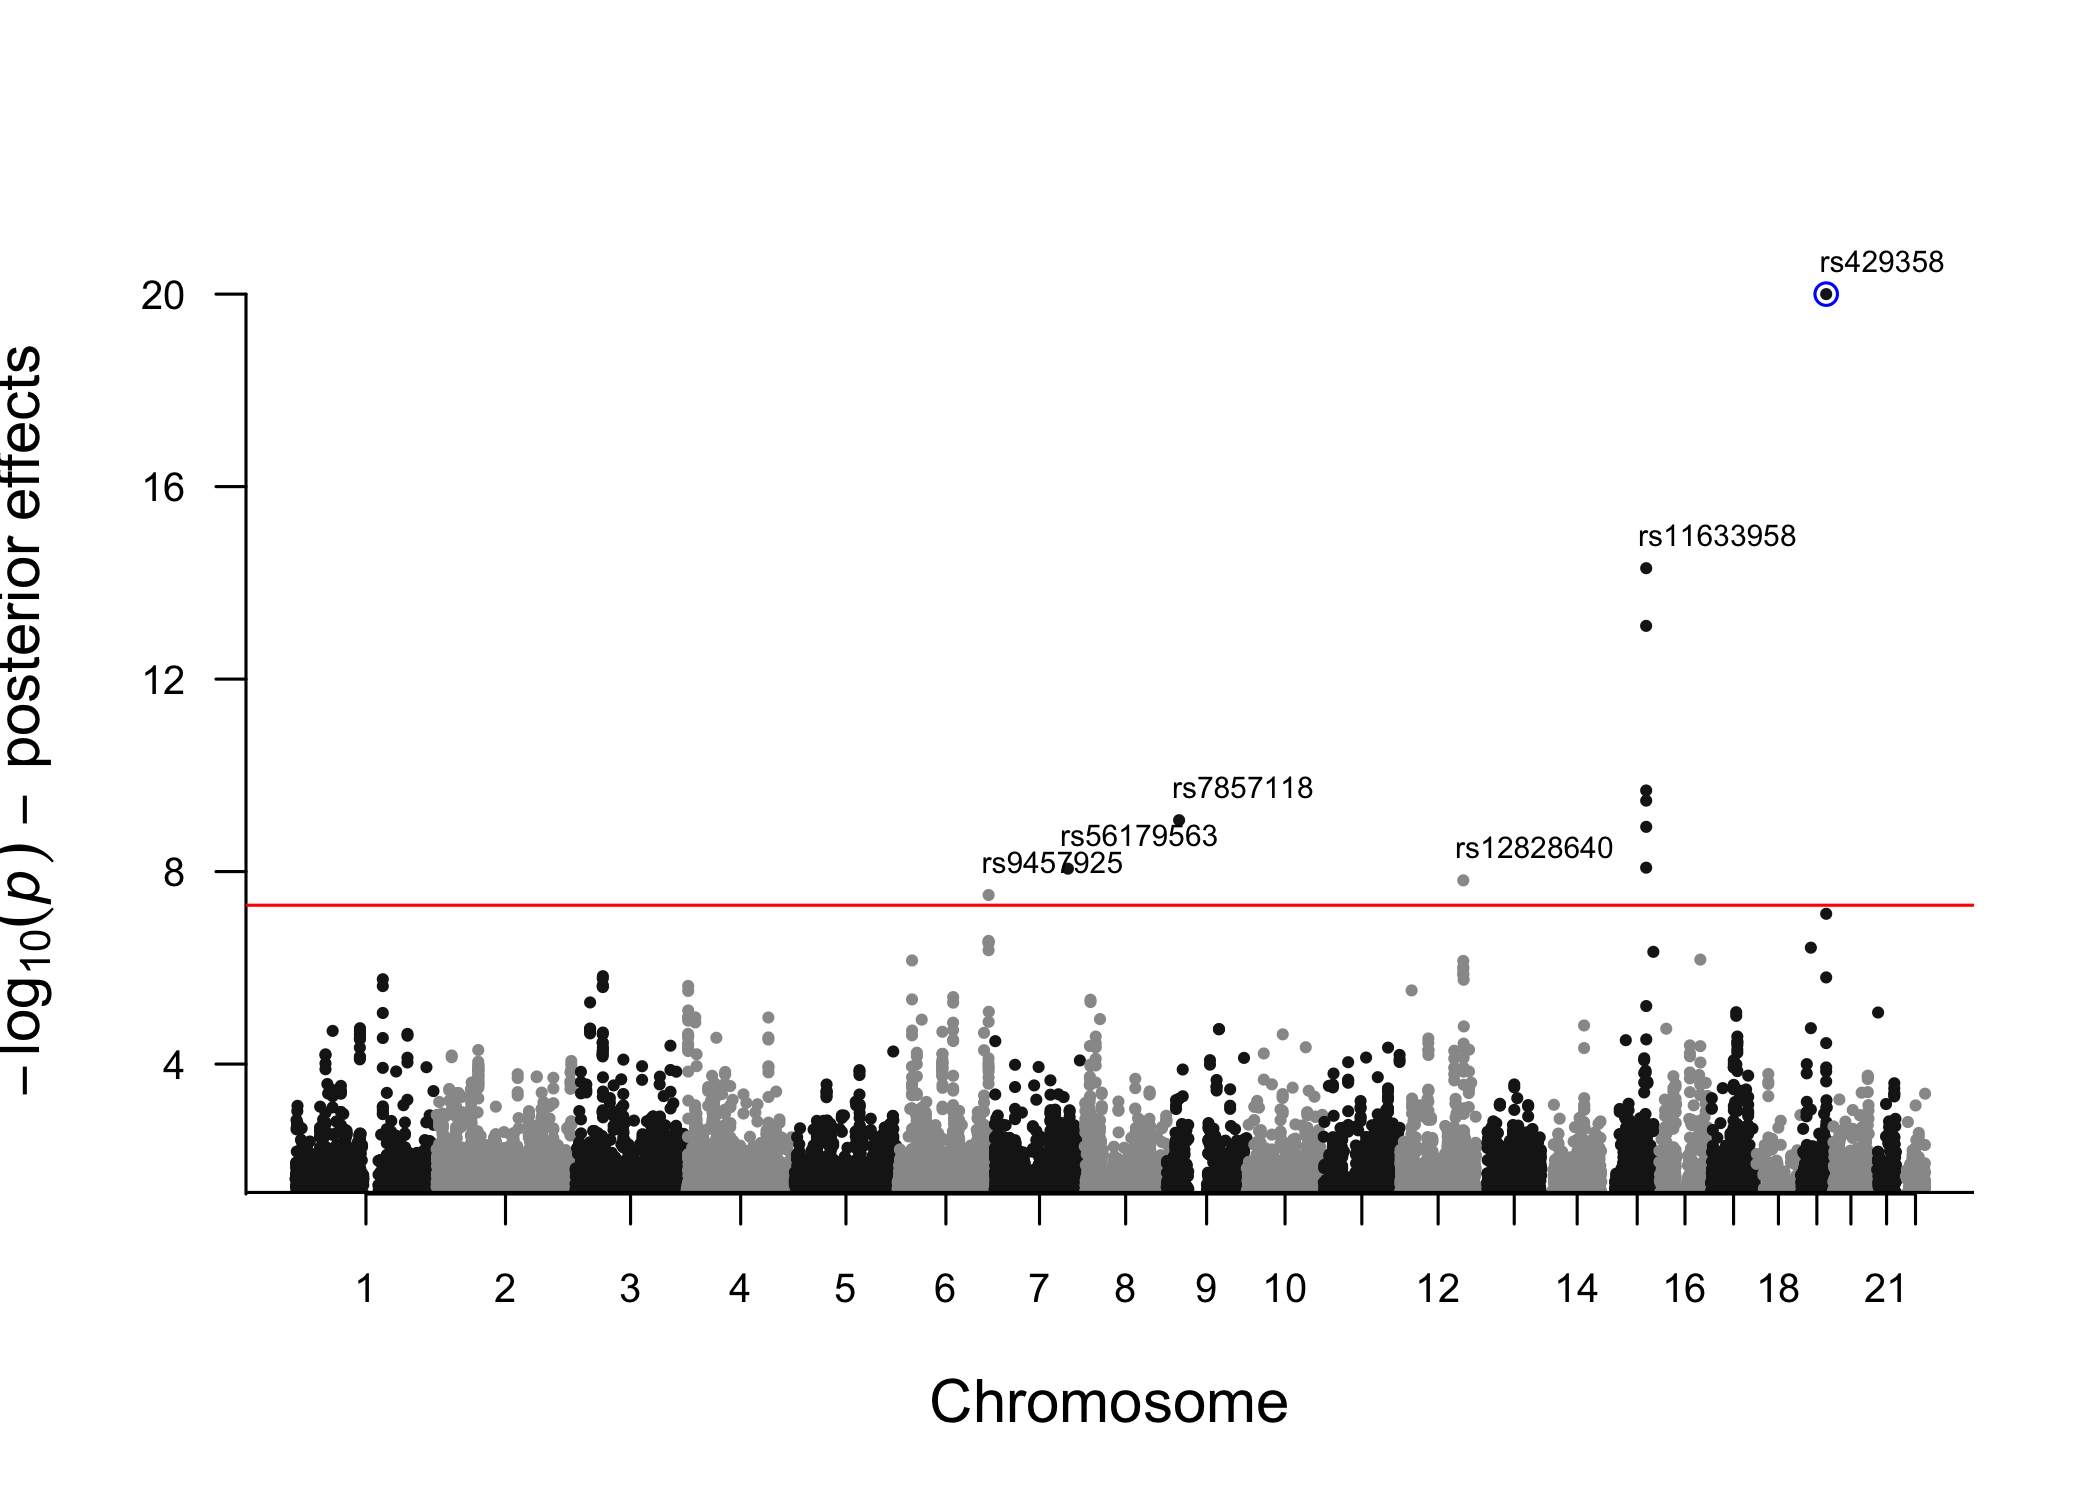
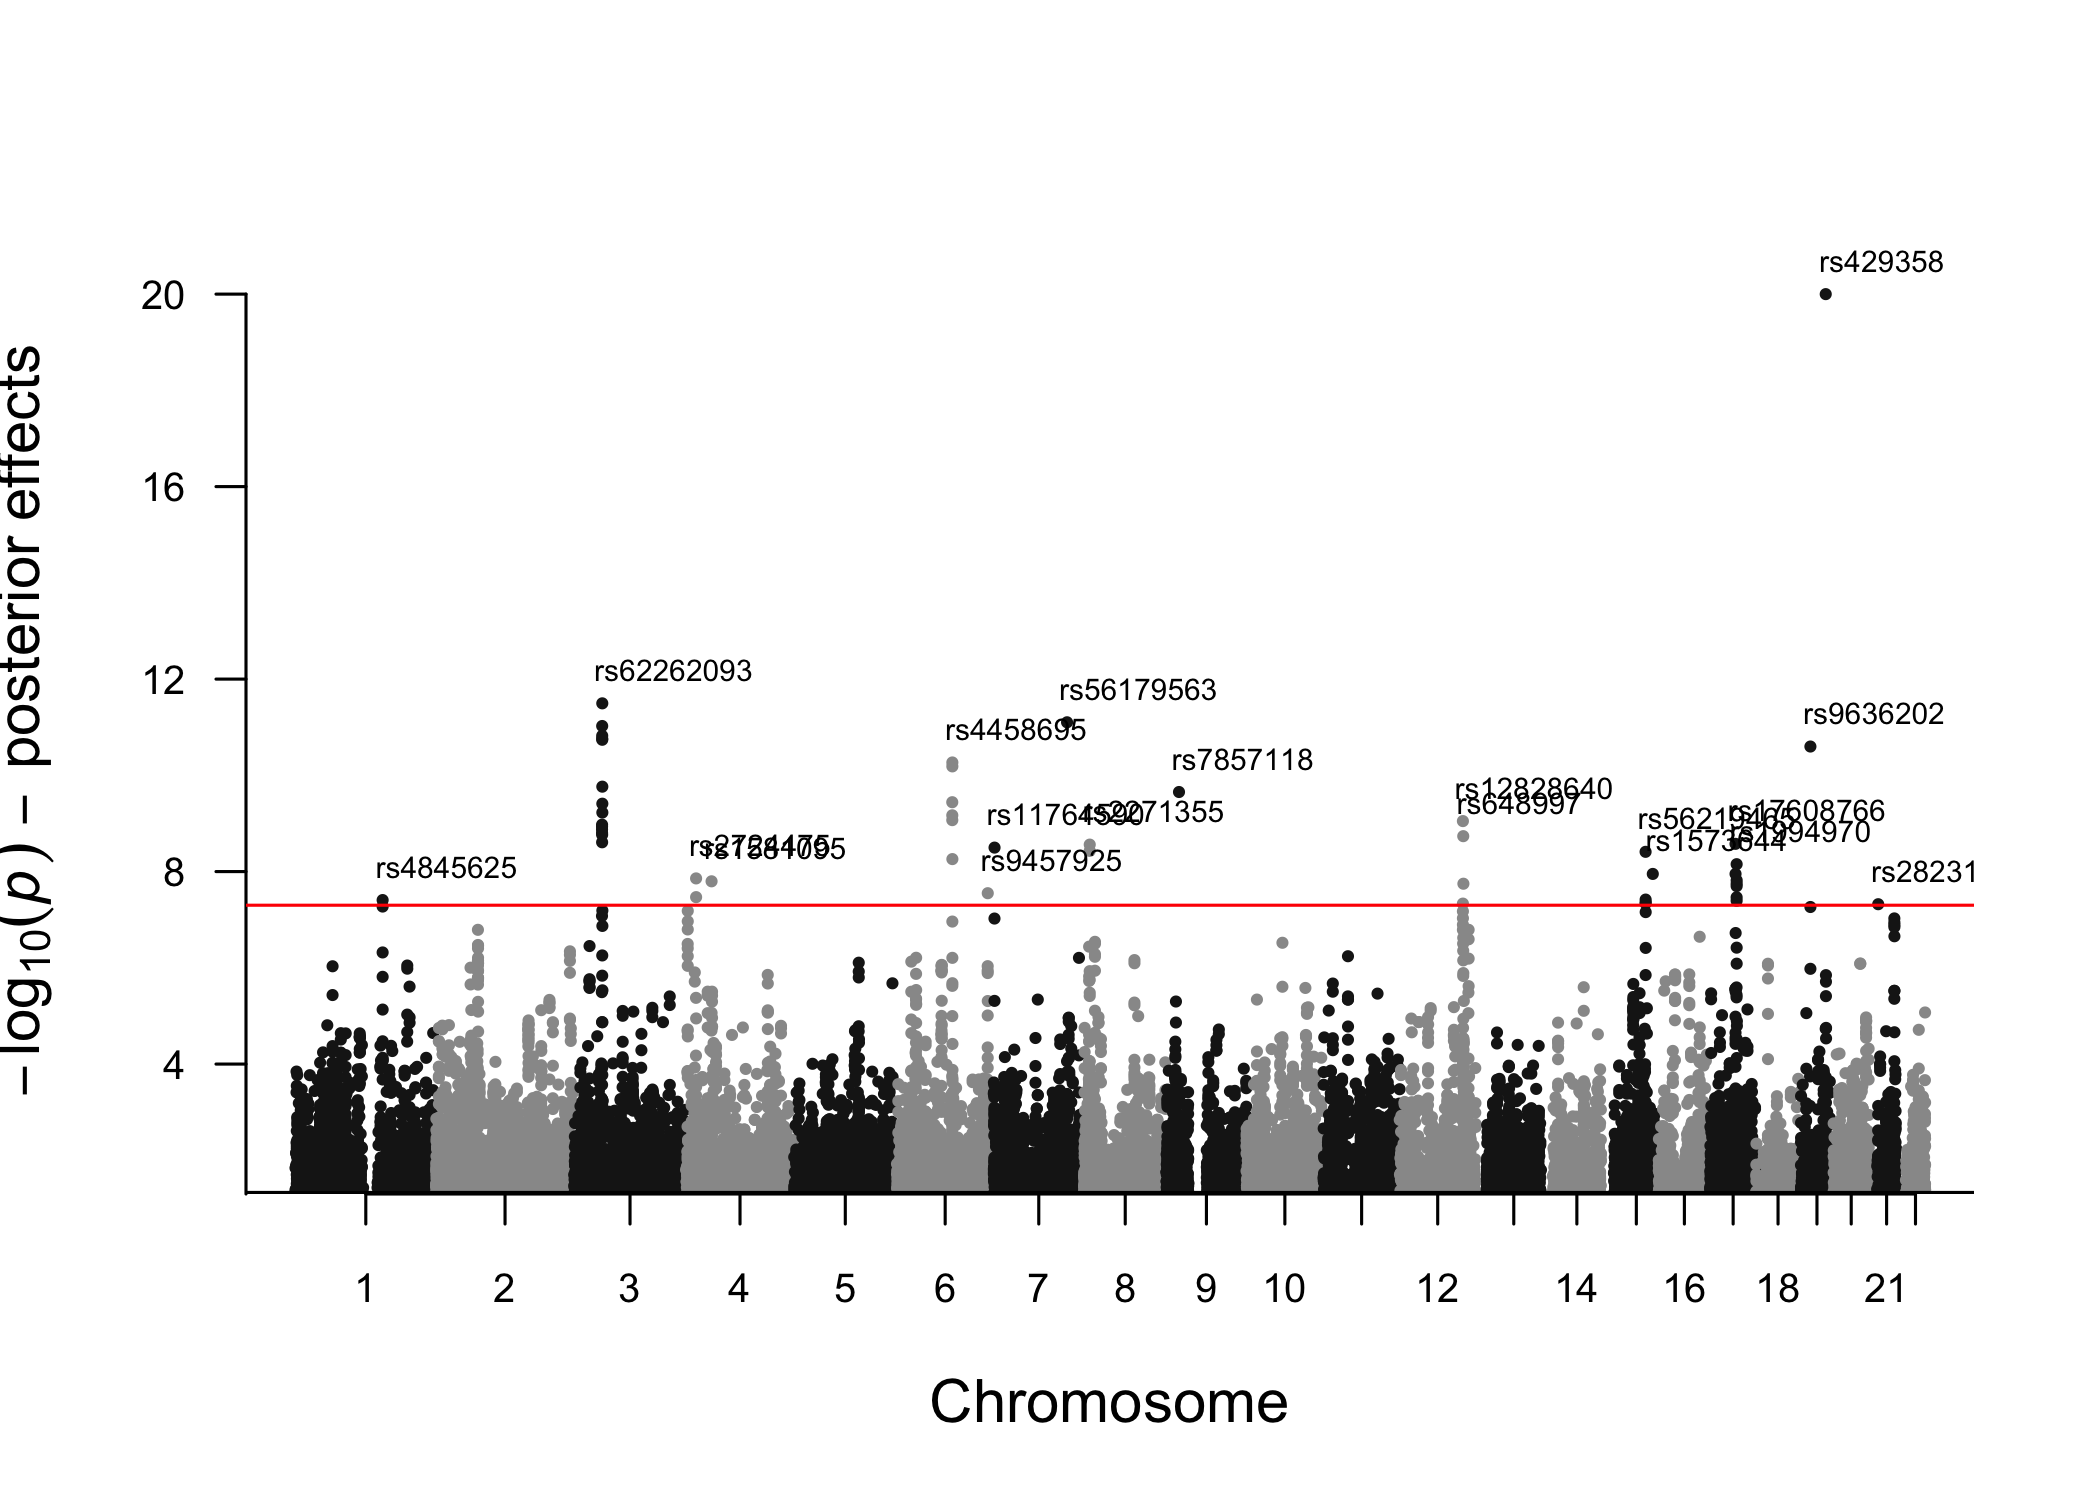
v.1.0.1 - Correct variance formula

diff --git a/README.md b/README.md
@@ -1,6 +1,6 @@
 
 [![](https://travis-ci.org/n-mounier/bGWAS.svg?branch=master)](https://travis-ci.org/n-mounier/bGWAS)
-[![](https://img.shields.io/badge/version-1.0.0-informational.svg)](https://github.com/n-mounier/bGWAS)
+[![](https://img.shields.io/badge/version-1.0.1-informational.svg)](https://github.com/n-mounier/bGWAS)
 [![](https://img.shields.io/badge/lifecycle-maturing-9cf.svg)](https://www.tidyverse.org/lifecycle/#maturing)
 [![](https://img.shields.io/github/last-commit/n-mounier/bGWAS.svg)](https://github.com/n-mounier/bGWAS/commits/master)
 [![](https://img.shields.io/badge/license-GPL--2.0-lightgrey.svg)](https://www.gnu.org/licenses/old-licenses/gpl-2.0.en.html)
@@ -343,8 +343,8 @@ print(A)
     ## 
     ## -_-_-_-_-_-_-_-_-_-_-_-_-_-_-_ 
     ##  
-    ## 11 significant SNPs identified : 
-    ##  rs429358, rs11633958, rs7857118, rs9457925, rs12828640, rs56179563, rs9379844, rs3794695, rs1573644, rs4762753, rs59613878
+    ## 13 significant SNPs identified : 
+    ##  rs429358, rs56219465, rs7857118, rs12828640, rs56179563, rs9457925, rs1573644, rs3794695, rs9636202, rs4845625, rs9379844, rs59613878, rs34348584
     ## 
     ## -_-_-_-_-_-_-_-_-_-_-_-_-_-_-_
 
@@ -573,25 +573,25 @@ print_log_bGWAS(A)
     ## Identification based on BFs 
     ##    Starting with 286,807 SNPs 
     ## # Selecting significant SNPs according to p-values... 
-    ## 31 SNPs left 
+    ## 29 SNPs left 
     ## Done! 
     ## # Pruning significant SNPs... 
     ##    distance : 500Kb 
-    ## 11 SNPs left 
+    ## 13 SNPs left 
     ## Done! 
     ## Identification based on posterior effects 
     ##    Starting with 286,807 SNPs 
     ## # Selecting significant SNPs according to p-values... 
-    ## 11 SNPs left 
+    ## 50 SNPs left 
     ## Done! 
     ## # Pruning significant SNPs... 
     ##    distance : 500Kb 
-    ## 6 SNPs left 
+    ## 19 SNPs left 
     ## Done! 
     ## Identification based on direct effects 
     ##    Starting with 286,807 SNPs 
     ## # Selecting significant SNPs according to p-values... 
-    ## 3 SNPs left 
+    ## 5 SNPs left 
     ## Done! 
     ## # Pruning significant SNPs... 
     ##    distance : 500Kb 
@@ -600,7 +600,7 @@ print_log_bGWAS(A)
     ## 
     ## 
     ## <><><><><><><><><><><><><><><><><><><><><><><><><><><><><><><><><><><><><><><><><><><><>
-    ## Time of the analysis: 1 minute(s) and 57 second(s).
+    ## Time of the analysis: 2 minute(s) and 6 second(s).
     ```
 
 </details>
@@ -615,33 +615,37 @@ hits = extract_results_bGWAS(A, SNPs = "significant")
 hits
 ```
 
-    ## # A tibble: 11 x 10
-    ##    rsid       chrm_UK10K pos_UK10K alt   ref    z_obs mu_prior_estimate
-    ##    <chr>           <dbl>     <dbl> <chr> <chr>  <dbl>             <dbl>
-    ##  1 rs429358           19  45411941 T     C      19.3             -0.351
-    ##  2 rs11633958         15  78862064 T     C     -10.2             -0.190
-    ##  3 rs7857118           9  22124140 A     T       6.20             2.61 
-    ##  4 rs9457925           6 160848743 A     G      -6.03            -1.72 
-    ##  5 rs12828640         12 111361298 A     G      -5.74            -2.34 
-    ##  6 rs56179563          7 129685597 A     G       5.19             3.37 
-    ##  7 rs9379844           6  26291527 A     G       5.50             1.43 
-    ##  8 rs3794695          16  72097827 T     C      -5.30            -1.69 
-    ##  9 rs1573644          15  91421283 T     C       4.88             2.43 
-    ## 10 rs4762753          12  20579969 T     G       5.31             1.16 
-    ## 11 rs59613878          4   3139152 T     C       4.90             1.78 
+    ## # A tibble: 13 x 10
+    ##    rsid       chrm_UK10K pos_UK10K alt   ref   z_obs mu_prior_estimate
+    ##    <chr>           <dbl>     <dbl> <chr> <chr> <dbl>             <dbl>
+    ##  1 rs429358           19  45411941 T     C     19.3             -0.351
+    ##  2 rs56219465         15  78742579 A     G      9.27             0.790
+    ##  3 rs7857118           9  22124140 A     T      6.20             2.61 
+    ##  4 rs12828640         12 111361298 A     G     -5.74            -2.34 
+    ##  5 rs56179563          7 129685597 A     G      5.19             3.37 
+    ##  6 rs9457925           6 160848743 A     G     -6.03            -1.72 
+    ##  7 rs1573644          15  91421283 T     C      4.88             2.43 
+    ##  8 rs3794695          16  72097827 T     C     -5.30            -1.69 
+    ##  9 rs9636202          19  18449238 A     G      4.40             3.12 
+    ## 10 rs4845625           1 154422067 T     C     -4.63            -2.29 
+    ## 11 rs9379844           6  26291527 A     G      5.50             1.43 
+    ## 12 rs59613878          4   3139152 T     C      4.90             1.78 
+    ## 13 rs34348584          3  27532704 T     C      4.46             2.11 
     ##    mu_prior_std_error      BF     BF_p
     ##                 <dbl>   <dbl>    <dbl>
-    ##  1               1.16 1.24e45 6.01e-68
-    ##  2               1.16 1.30e13 1.85e-21
-    ##  3               1.32 1.26e 7 9.21e-13
-    ##  4               1.17 1.00e 6 4.19e-11
-    ##  5               1.20 8.51e 5 5.36e-11
-    ##  6               1.23 2.31e 5 3.93e-10
-    ##  7               1.14 6.57e 4 2.71e- 9
-    ##  8               1.16 5.16e 4 3.94e- 9
-    ##  9               1.21 2.76e 4 1.04e- 8
-    ## 10               1.16 2.20e 4 1.47e- 8
-    ## 11               1.16 1.36e 4 3.11e- 8
+    ##  1              0.588 3.86e18 7.77e-35
+    ##  2              0.598 1.22e 7 3.22e-14
+    ##  3              0.859 4.09e 6 1.77e-13
+    ##  4              0.658 2.12e 5 1.83e-11
+    ##  5              0.718 1.92e 5 2.13e-11
+    ##  6              0.608 7.62e 4 9.40e-11
+    ##  7              0.675 1.55e 4 1.30e- 9
+    ##  8              0.584 8.53e 3 3.58e- 9
+    ##  9              0.607 7.58e 3 4.38e- 9
+    ## 10              0.645 5.49e 3 7.66e- 9
+    ## 11              0.538 5.33e 3 8.05e- 9
+    ## 12              0.584 3.82e 3 1.44e- 8
+    ## 13              0.675 2.64e 3 2.77e- 8
 
 ``` r
 all_results = extract_results_bGWAS(A, SNPs = "all")
@@ -662,8 +666,8 @@ extract_results_bGWAS(A, SNPs = "significant", results = "direct")
     ## 2 rs11633958         15  78862064 T     C     -10.2              -9.99
     ##   mu_direct_std_error z_direct p_direct
     ##                 <dbl>    <dbl>    <dbl>
-    ## 1                1.53    12.8  8.90e-38
-    ## 2                1.53    -6.51 7.28e-11
+    ## 1                1.16    17.0  1.60e-64
+    ## 2                1.16    -8.59 8.58e-18
 
 ``` r
 extract_MRcoeffs_bGWAS(A)[,1:12]
